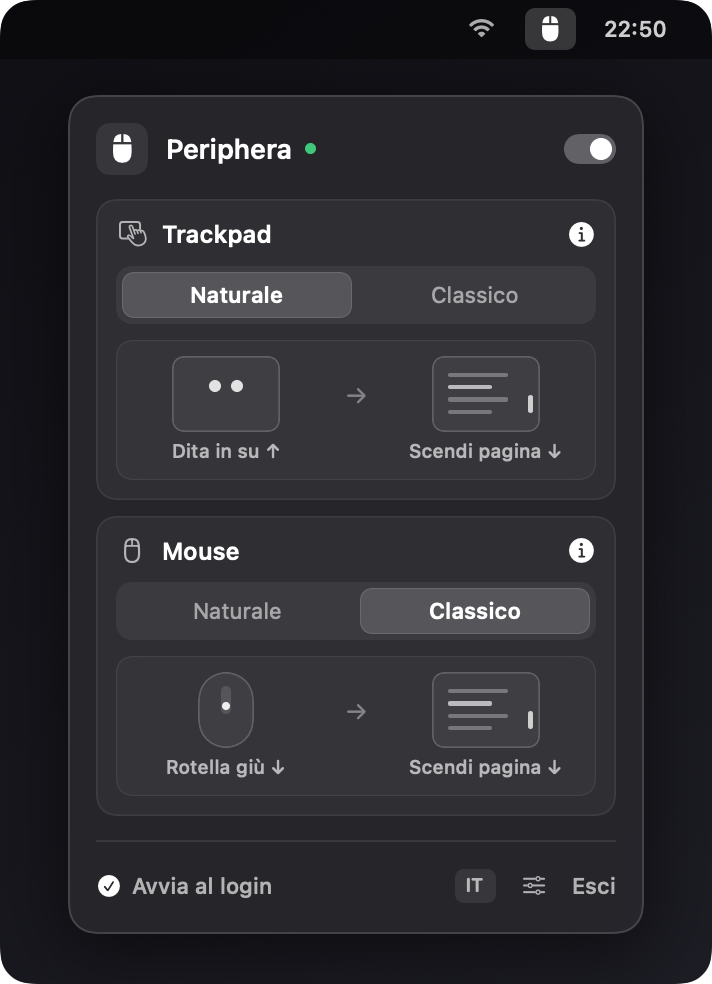
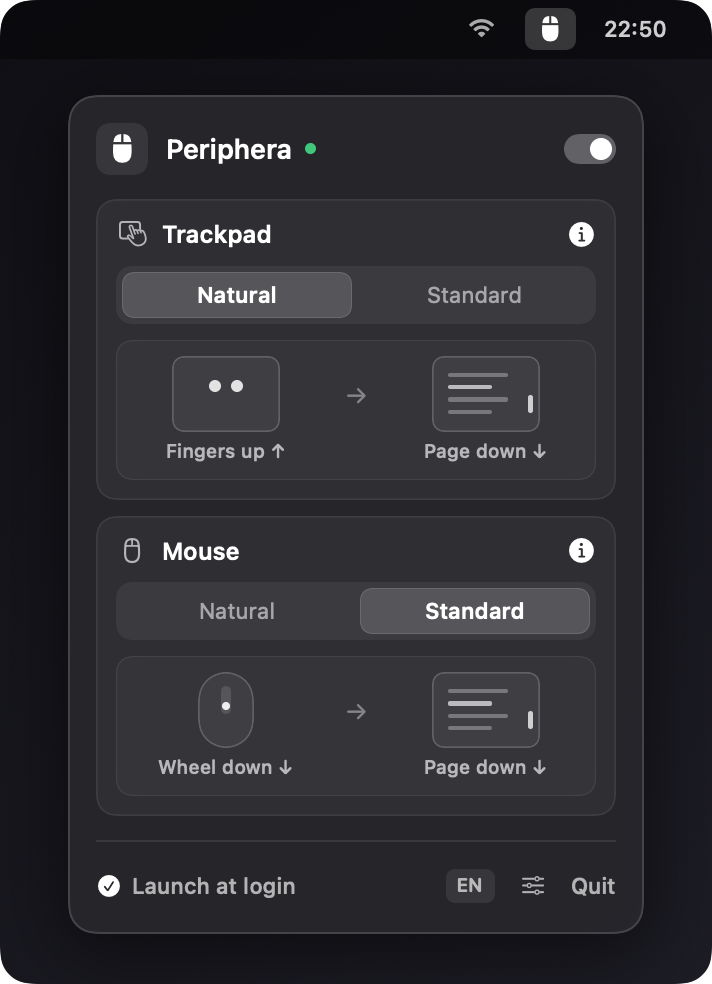
docs: English-only README and preview screenshots

diff --git a/README.md b/README.md
@@ -1,7 +1,7 @@
 <div align="center">
   <img src="Periphera/Assets.xcassets/AppIcon.appiconset/icon_256.png" width="88" height="88" alt="Periphera Icon" />
   <h1>Periphera</h1>
-  <p><strong>Independent scroll direction for Trackpad and Mouse on macOS.</strong><br/><em>Scorrimento indipendente per Trackpad e Mouse su macOS.</em></p>
+  <p><strong>Independent scroll direction for Trackpad and Mouse on macOS.</strong></p>
 
   <p>
     <a href="https://github.com/carlosiccardi/Periphera/releases/latest/download/Periphera.dmg">
@@ -12,13 +12,13 @@
 
 ---
 
-## Preview / Anteprima
+## Preview
 
 <div align="center">
   <table>
     <tr>
-      <td align="center"><strong>Minimal View</strong><br/><em>Vista Minimale</em></td>
-      <td align="center"><strong>Interactive <code>(i)</code> Simulator</strong><br/><em>Simulatore <code>(i)</code> Interattivo</em></td>
+      <td align="center"><strong>Minimal View</strong></td>
+      <td align="center"><strong>Interactive <code>(i)</code> Simulator</strong></td>
     </tr>
     <tr>
       <td valign="top"><img src="docs/preview-minimal.png" width="340" alt="Periphera Minimal UI" /></td>
@@ -29,35 +29,22 @@
 
 ---
 
-## EN — Overview
+## Overview
 
-Even in 2026, macOS still forces a single global toggle for "Natural Scrolling" across both your Trackpad and external Mouse. **Periphera** is an ultra-lightweight, native macOS menu bar utility that decouples them—so you can keep **Natural scrolling** on your Trackpad and **Standard (Classic) wheel scrolling** on your Mouse.
+Even in 2026, macOS still forces a single global toggle for "Natural Scrolling" across both your Trackpad and external Mouse. **Periphera** is an ultra-lightweight, native macOS menu bar utility that decouples them—so you can keep **Natural scrolling** on your Trackpad and **Standard wheel scrolling** on your Mouse.
 
-### Features
-- **Independent Scroll Directions**: Set **Natural** or **Standard** independently for Trackpad and external Mouse.
+## Features
+
+- **Independent Scroll Directions**: Set **Natural** or **Standard** independently for your Trackpad and external Mouse.
 - **Zero-Latency Native Engine**: Built on CoreGraphics (`CGEventTap`) in Swift 6; preserves native macOS trackpad inertia, rubber-banding, and swipe gestures.
-- **Pure Menu Bar Agent**: Runs silently in the background (`LSUIElement`) with zero Dock clutter.
+- **Pure Menu Bar Agent**: Runs silently in the background (`LSUIElement`) with zero Dock clutter and optional Launch at Login.
 - **Interactive Visual Simulator**: Built-in minimal `(i)` animated preview showing finger/wheel gesture vs. page movement.
 - **Mouse Wheel Calibration**: Optional wheel speed multiplier (`0.5x` – `2.5x`) and horizontal scroll inversion.
-- **Bilingual (`EN` / `IT`)**: Automatically adapts to system language with an instant in-app toggle.
+- **Multi-Language (`EN` / `IT`)**: Automatically adapts to system language with an instant in-app toggle.
 
 ---
 
-## IT — Panoramica
-
-Anche nel 2026, macOS continua a legare lo "Scorrimento naturale" del Trackpad a quello del Mouse esterno con un unico interruttore globale. **Periphera** è un'app nativa da barra dei menu, minimale e invisibile nel Dock, che separa i due dispositivi permettendoti di usare lo scorrimento **Naturale** sul Trackpad e **Classico** sulla rotella del Mouse.
-
-### Caratteristiche
-- **Direzioni Indipendenti**: Configura separatamente **Naturale** o **Classico** per Trackpad e Mouse.
-- **Motore Nativo a Latenza Zero**: Basato su `CGEventTap` in Swift 6; mantiene intatti tutti i gesti multi-touch e l'inerzia nativa del Trackpad.
-- **Invisibile nel Dock**: Gira esclusivamente in background nella barra superiore (`LSUIElement`), con avvio automatico al login.
-- **Simulatore Visivo Integrato**: Premendo sulla `(i)` mostra una micro-animazione del gesto su Trackpad/Mouse e l'effetto corrispondente sulla pagina.
-- **Calibrazione Rotella Mouse**: Moltiplicatore di velocità (`0.5x` – `2.5x`) e inversione opzionale dell'asse orizzontale.
-- **Bilingue (`IT` / `EN`)**: Rilevamento automatico della lingua di sistema con selettore rapido integrato.
-
----
-
-## Installation / Installazione
+## Installation
 
 1. [**Download `Periphera.dmg`**](https://github.com/carlosiccardi/Periphera/releases/latest/download/Periphera.dmg) from the [Releases](https://github.com/carlosiccardi/Periphera/releases) page.
 2. Drag **Periphera.app** into your `/Applications` folder and launch it.
